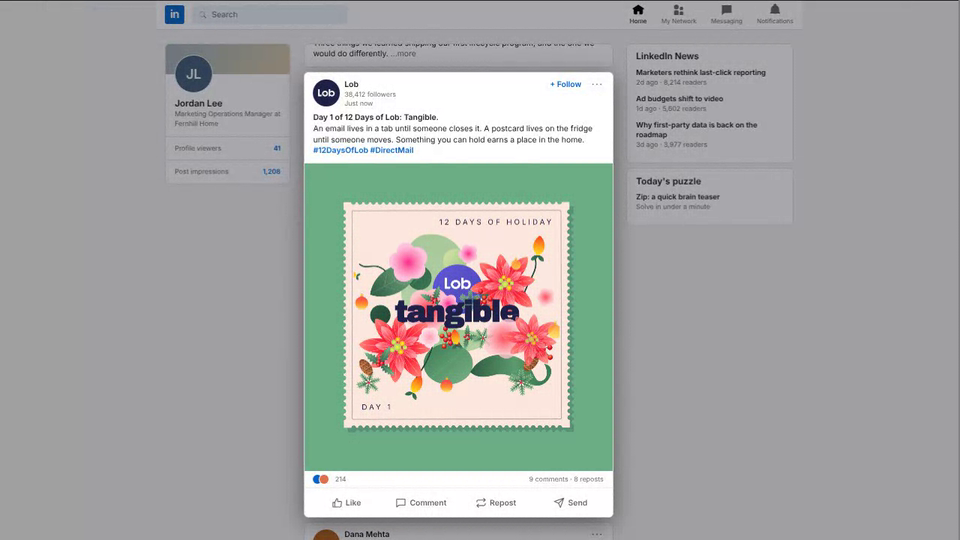
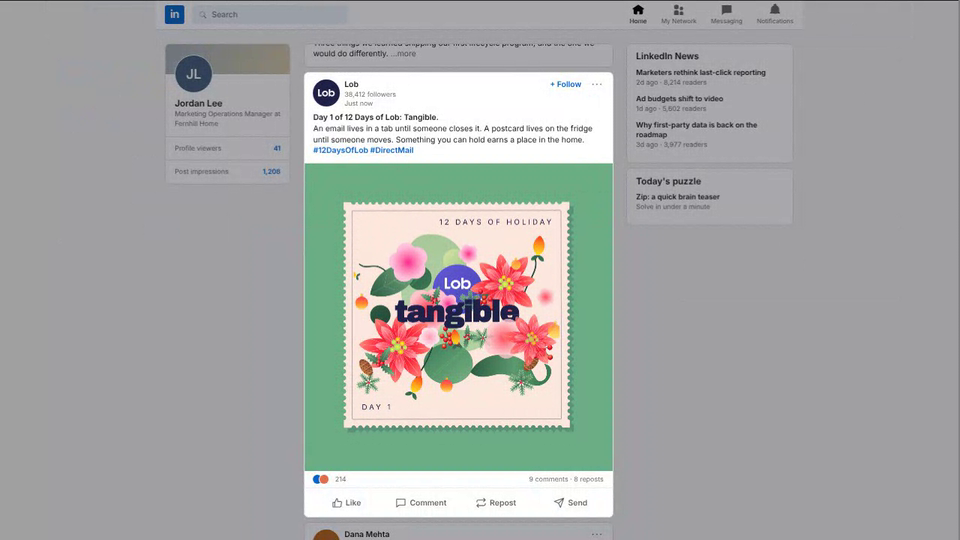
Lob 12 Days LinkedIn: remove the drop shadow behind the post
Claude-Session: https://claude.ai/code/session_01AHeBe1QDPu7caGBAPpCDLn

Changed region(s): [[0.3125, 0.1481, 0.6562, 1.0]]

diff --git a/lob-12-days-linkedin/index.html b/lob-12-days-linkedin/index.html
@@ -57,7 +57,7 @@ nav.back span{color:#6e6e6e}nav.back b{font-weight:500;color:#fff;overflow:hidde
 .act svg{width:20px;height:20px;fill:none;stroke:currentColor;stroke-width:1.8;stroke-linejoin:round}
 
 /* the Lob post, above the scrim */
-.lob{position:relative;z-index:6;overflow:hidden;box-shadow:0 10px 40px rgba(0,0,0,.45),0 0 0 1px rgba(255,255,255,.1)}
+.lob{position:relative;z-index:6;overflow:hidden}
 .av-l{background:var(--navy)}
 .av-l svg{width:30px;height:auto}
 .cap{padding:8px 16px 12px;font-size:14px;line-height:1.43;min-height:calc(14px*1.43*4 + 20px)}
